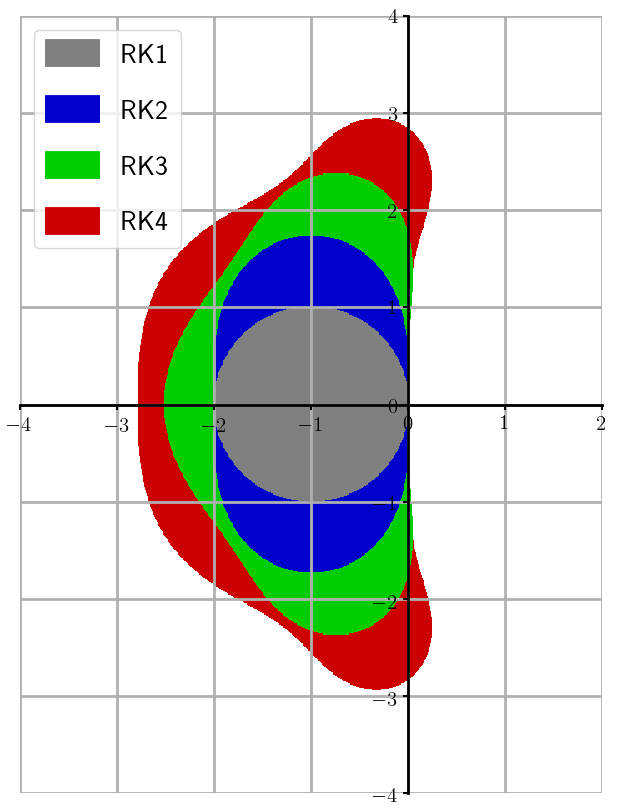
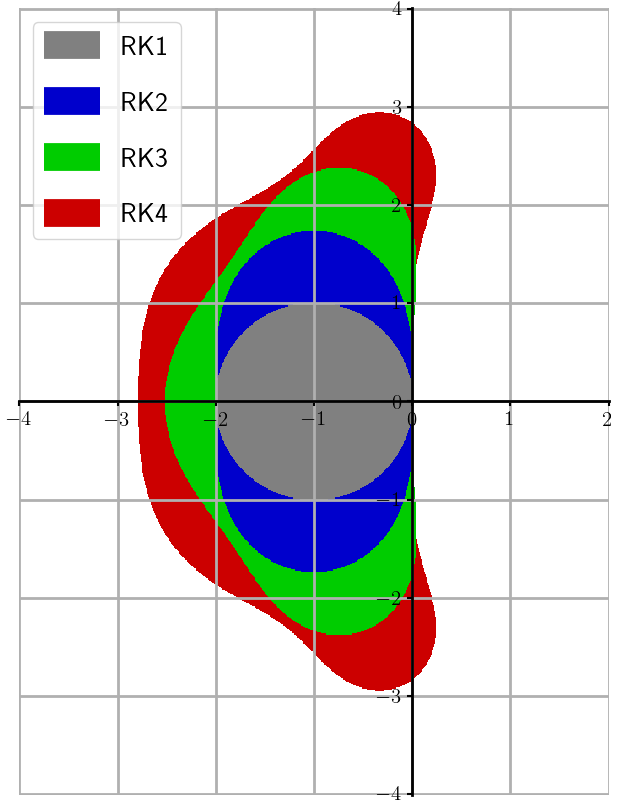
Setting figures transparent + deprecation in matplotlib

diff --git a/fig.py b/fig.py
@@ -5,7 +5,7 @@ import numpy as np
 import scipy.linalg
 import scipy.special
 
-matplotlib.rcParams.update({
+plt.rcParams.update({
     'xtick.labelsize': 15,
     'ytick.labelsize': 15,
     'xtick.major.width': 1.5,
@@ -21,7 +21,7 @@ matplotlib.rcParams.update({
     'lines.markeredgewidth': 15,
     'lines.markersize': 3,
     'lines.linewidth': 3,
-    'text.latex.preamble': [r"\usepackage{amsmath}"],
+    'text.latex.preamble': r"\usepackage{amsmath}",
     'text.usetex': True
 })
 
@@ -49,13 +49,16 @@ def fig_rk():
     ax.xaxis.tick_bottom()
     for (i, c) in zip((4, 3, 2, 1), ([.8, .0, .0, 1], [.0, .8, .0, 1], [.0, .0, .8, 1], [.5, .5, .5, 1])):
         rk_i = abs(r(i)(x + 1j * y)) < 1
-        ax.pcolormesh(x, y, np.ma.masked_array(rk_i, mask=1 - rk_i), cmap=clr.ListedColormap([c]))
+        ax.pcolormesh(x, y, np.ma.masked_array(rk_i, mask=1 - rk_i), cmap=clr.ListedColormap([c]), shading='auto')
         ax.plot([None], '--', c=c, lw=20, label='RK{0}'.format(i))
 
     handles, labels = ax.get_legend_handles_labels()
     ax.legend(handles[::-1], labels[::-1], loc='upper left')
     ax.grid()
-    plt.show()
+    fig.set_size_inches(6.28, 8.11)
+    plt.subplots_adjust(0.00, 0.02, 1.0, 0.99)
+    # plt.show()
+    plt.savefig("images/rk_stab.png", transparent=True)
 
 
 def fig_bdf():
@@ -93,12 +96,15 @@ def fig_bdf():
         ax.yaxis.tick_left()
         ax.xaxis.tick_bottom()
         rk_i = r(i)(x + 1j * y)
-        ax.pcolormesh(x, y, np.ma.masked_array(rk_i, mask=1 - rk_i), cmap=clr.ListedColormap([c]))
+        ax.pcolormesh(x, y, np.ma.masked_array(rk_i, mask=1 - rk_i), cmap=clr.ListedColormap([c]), shading='auto')
         ax.plot([None], '--', c=c, lw=20)
         ax.set_title('BDF{0}'.format(i), y=-.1)
         ax.grid()
 
-    plt.show()
+    fig.set_size_inches(19.20, 10.00)
+    plt.subplots_adjust(0.00, 0.05, 1.0, 0.99, 0.05, 0.2)
+    # plt.show()
+    plt.savefig("images/bdf_stab.png", transparent=True)
 
 
 def fig_ab():
@@ -149,12 +155,15 @@ def fig_ab():
     ax.xaxis.tick_bottom()
     for (i, c) in zip((1, 2, 3, 4), ([.5, .5, .5, 1], [.0, .0, .8, 1], [.0, .8, .0, 1], [.8, .0, .0, 1],)):
         rk_i = r(i)(x + 1j * y)
-        ax.pcolormesh(x, y, np.ma.masked_array(rk_i, mask=1 - rk_i), cmap=clr.ListedColormap([c]))
+        ax.pcolormesh(x, y, np.ma.masked_array(rk_i, mask=1 - rk_i), cmap=clr.ListedColormap([c]), shading='auto')
         ax.plot([None], '--', c=c, lw=20, label='AB{0}'.format(i))
     ax.legend(loc='upper left')
     ax.grid()
 
-    plt.show()
+    fig.set_size_inches(8.40, 8.20)
+    plt.subplots_adjust(0.00, 0.02, 1.0, 0.99)
+    # plt.show()
+    plt.savefig("images/ab_stab.png", transparent=True)
 
 
 def fig_precond():
@@ -217,4 +226,7 @@ def fig_precond():
 
 
 if __name__ == '__main__':
-    fig_rk()
+    # fig_rk()
+    # fig_bdf()
+    # fig_ab()
+    pass
